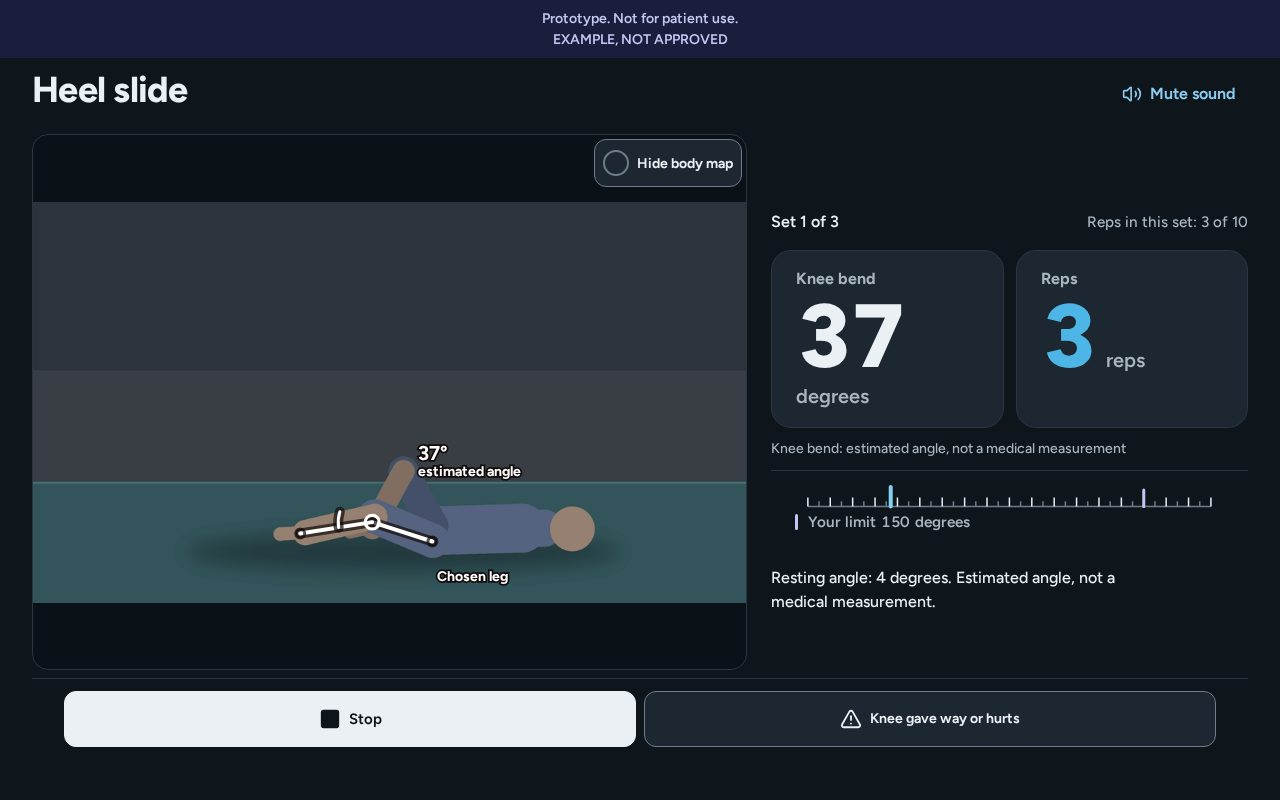
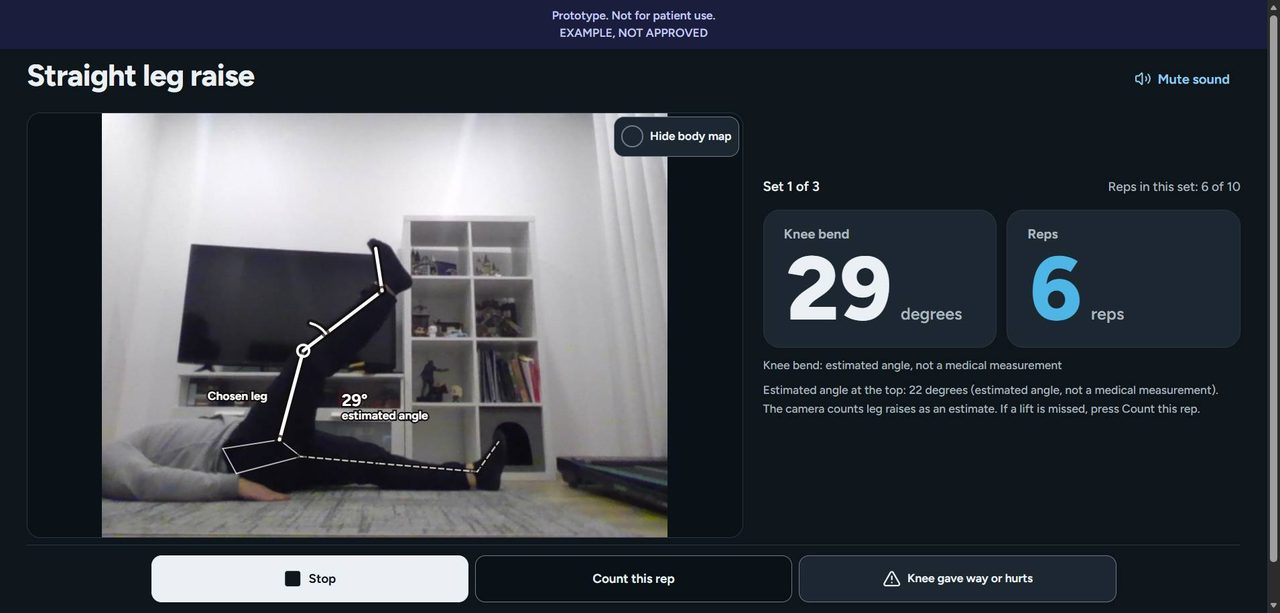
README: a real screenshot of a straight leg raise

diff --git a/README.md b/README.md
@@ -31,7 +31,7 @@ This app is a research and evaluation prototype that counts reps and estimates t
 
 ## What it looks like
 
-These screens come from the first live test on a real person, on 2026-11-22. The pictures show the app screens only. The camera picture is not part of them.
+These screens come from live tests on a real person, on 2026-11-22. Only the exercise picture below shows a camera view.
 
 | Privacy, the first screen | The plan that the app made |
 |---|---|
@@ -43,9 +43,9 @@ These screens come from the first live test on a real person, on 2026-11-22. The
 
 During an exercise, the app shows the measured number and the rep count. It shows no verdict, no score and no colour of praise or blame.
 
-![The heel slide screen: a drawn figure with the body map on the leg, knee bend 37 degrees, 3 reps, and two buttons](docs/img/exercise.jpg)
+![The straight leg raise screen: body map on the raised leg, knee bend 29 degrees, 6 reps](docs/img/exercise.jpg)
 
-The leg movement is replayed from landmark numbers of a public CC BY test clip (attribution in docs/accuracy.md). The picture is an illustration. No video or real person is shown.
+This is the screen during a real straight leg raise on a laptop webcam, with the example plan. The camera picture shows a room and the legs of the person who ran the test. The body map follows the raised leg. The angle is an estimate.
 
 ![The live numbers: knee bend 8 degrees, 2 reps, labelled as an estimate](docs/img/live-numbers.jpg)
 
